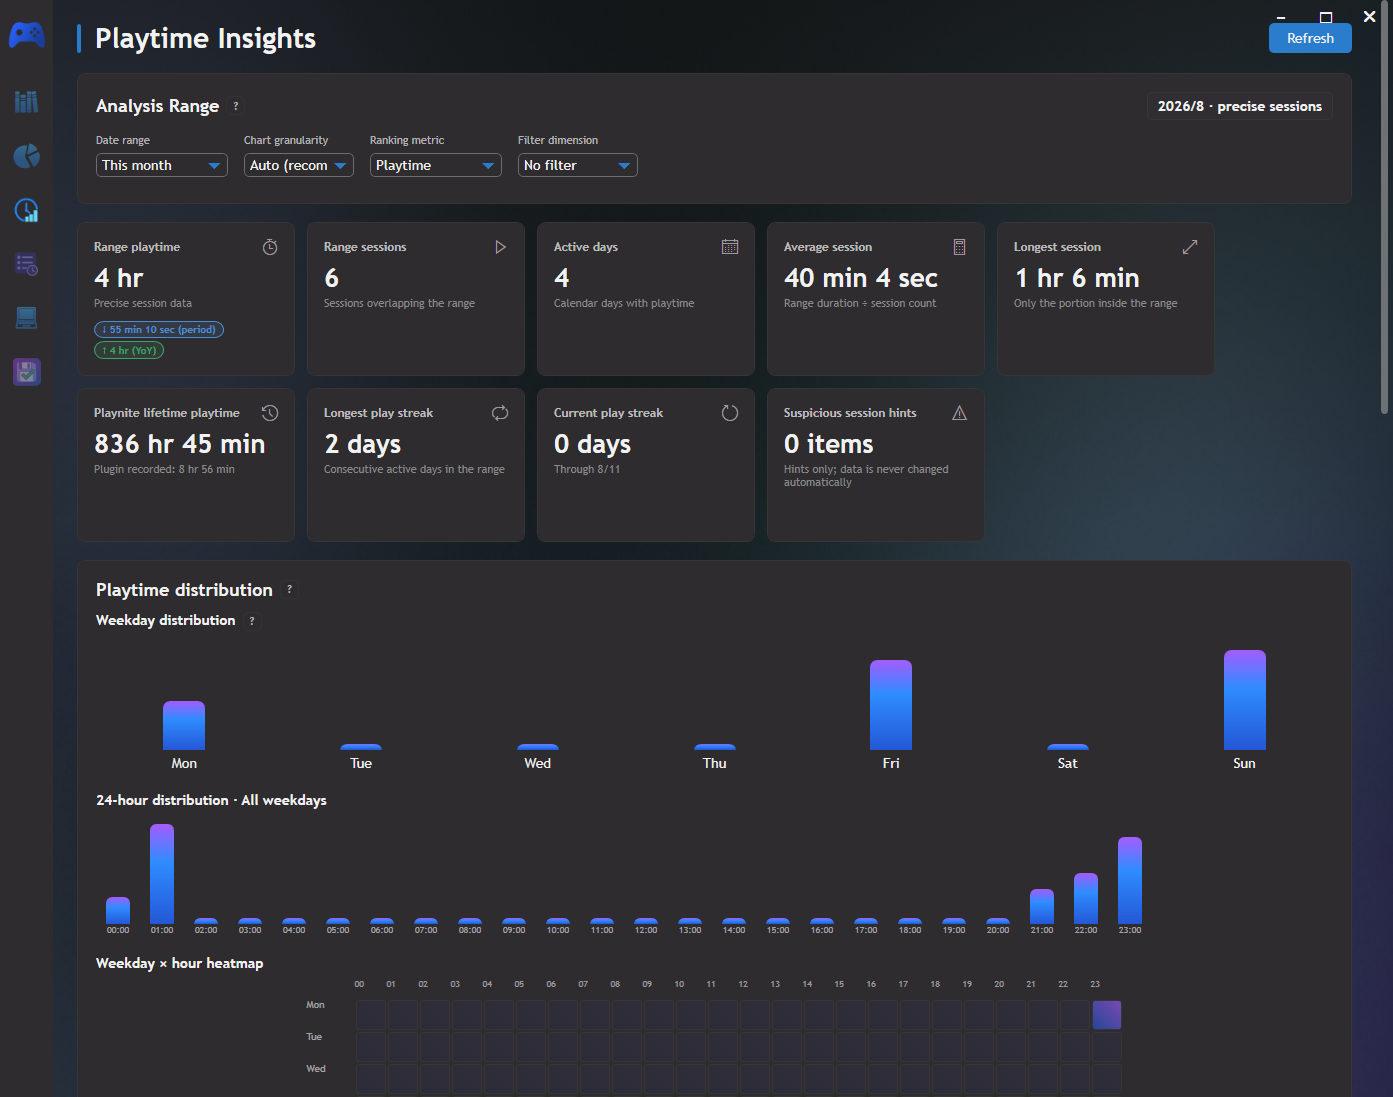
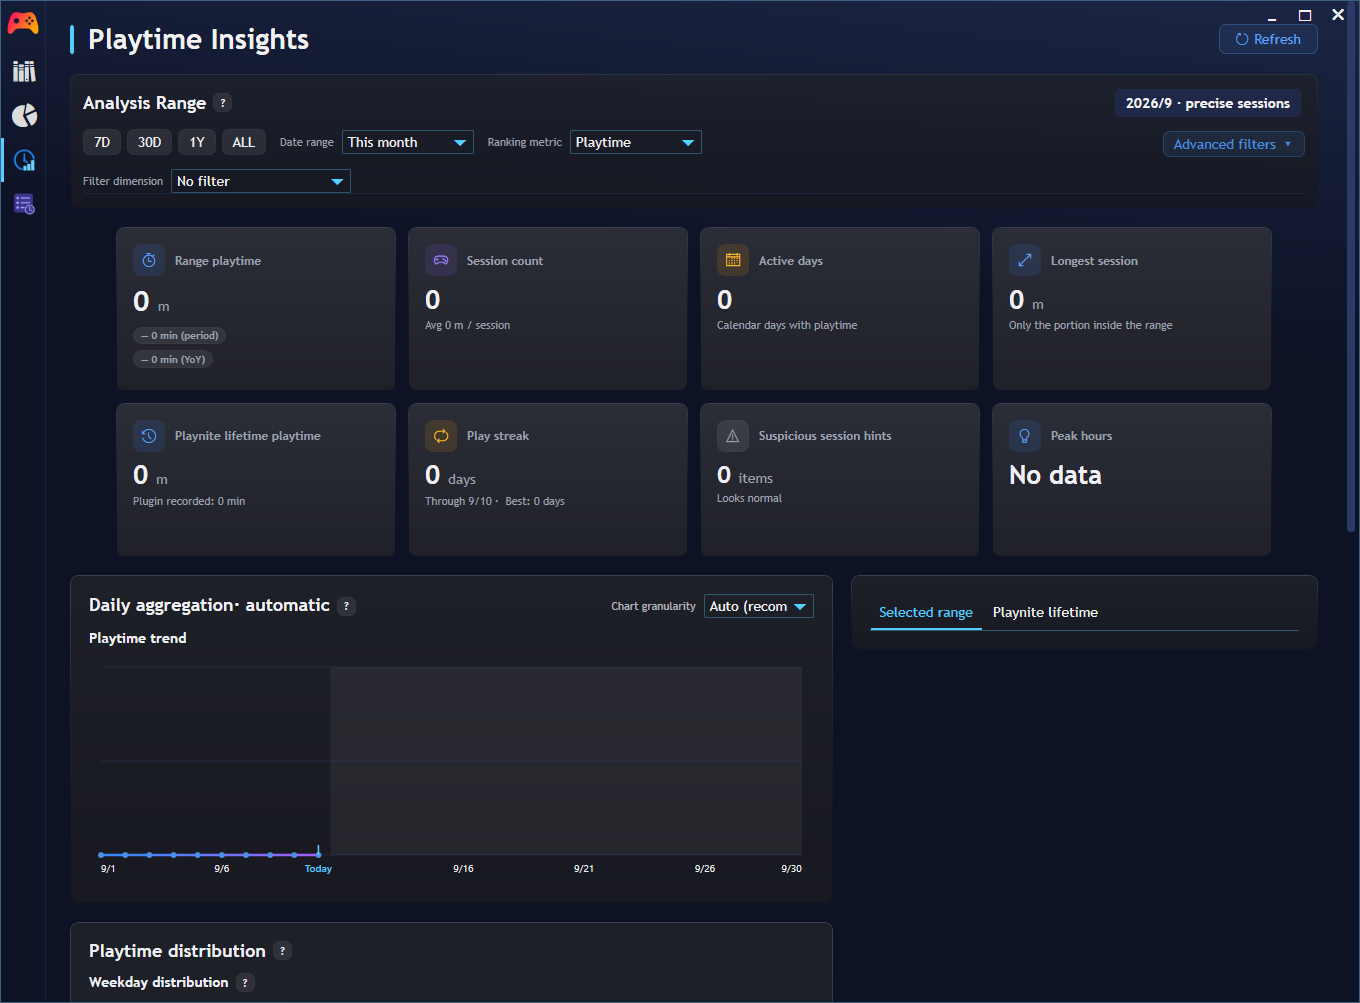
chore: finalize 1.1.0 release

diff --git a/Tests/Program.cs b/Tests/Program.cs
@@ -11748,7 +11748,9 @@ namespace PlaytimeInsights.Tests
                 "LOCPlaytimeInsightsSessionsSubtitle"));
 
             Equal(true, readme.Contains("当前源码版本：`1.1.0`"));
-            Equal(true, readme.Contains("公开安装包仍为 `1.0.0`"));
+            Equal(true, readme.Contains("当前公开版本为 `1.1.0`"));
+            Equal(true, readme.Contains("Dashboard 视觉改善"));
+            Equal(true, readme.Contains("性能优化"));
             Equal(true, readme.Contains(
                 "作者：[SHINKU1506](https://github.com/SHINKU1506)"));
             Equal(true, readme.Contains("## 界面预览"));
@@ -11792,7 +11794,7 @@ namespace PlaytimeInsights.Tests
             Equal(true, installerManifest.Contains(
                 "/releases/download/v1.1.0/PlaytimeInsights_7094cd6b-d3a4-41d0-b7c3-f0cc535a9efd_1_1_0.pext"));
             Equal(true, installerManifest.Contains(
-                "ReleaseDate: 2026-09-09"));
+                "ReleaseDate: 2026-09-10"));
             Equal(true, preReleaseWorkflow.Contains(
                 "PEXT URL returns HTTP 200"));
             Equal(true, preReleaseWorkflow.Contains(

diff --git a/docs/RELEASE_CHECKLIST.md b/docs/RELEASE_CHECKLIST.md
@@ -1,6 +1,6 @@
 # Playtime Insights 1.1.0 发布检查清单
 
-更新日期：2026-09-09
+更新日期：2026-09-10
 
 通用顺序、安全激活和 Add-on Database 判定见 `PRE_RELEASE_WORKFLOW.md`。本文件记录 1.1.0
 候选的实际证据；1.0.0 历史证据保留在 Git 历史与对应 Release 中。
@@ -41,6 +41,8 @@
 - [x] PEXT 严格包含 9 个与 Release 逐项哈希一致的安全条目，含 LICENSE、PRIVACY 和两个本地化 XAML；
 - [x] PEXT 不含 PDB、Playnite SDK DLL、绝对路径、父级路径或用户数据；DLL 敏感/调试路径扫描 0 命中；
 - [x] 包内 `extension.yaml` 为 1.1.0 且 AddonId 正确。
+- [x] 中文/英文 Dashboard 与中文设置页截图已在既有 URL 原位更新；图片 URL 未改变，因此
+  package-only 发布无需新增 Add-on Database PR，旧图仍由 `v0.9.8` 标签保留。
 
 ## 客户端门禁
 

diff --git a/CHANGELOG.md b/CHANGELOG.md
@@ -1,6 +1,6 @@
 # Changelog
 
-## 1.1.0 — 2026-09-09
+## 1.1.0 — 2026-09-10
 
 - 重组 Dashboard 视觉层级：统一 8 张响应式指标卡，增加主值/单位分层，只高亮当前快捷范围，并增强排行信息密度、结构化 Tooltip 和来源就近下钻；
 - 趋势图不再让未来区间压缩有效数据；全未来范围和单个可见点仍保留坐标轴、悬停层与可读节点；

diff --git a/docs/RELEASE_NOTES_1.1.0.md b/docs/RELEASE_NOTES_1.1.0.md
@@ -3,6 +3,8 @@
 Playtime Insights 1.1.0 集中改善 Dashboard 的信息层级、长区间性能和不同窗口宽度下的可读性，
 不改变既有本地会话数据格式或隐私边界。
 
+本次更新的核心是 Dashboard 视觉改善与性能优化。
+
 ## 主要变化
 
 - 重新组织 8 张响应式指标卡，拆分主值与单位，只高亮当前快捷范围；
